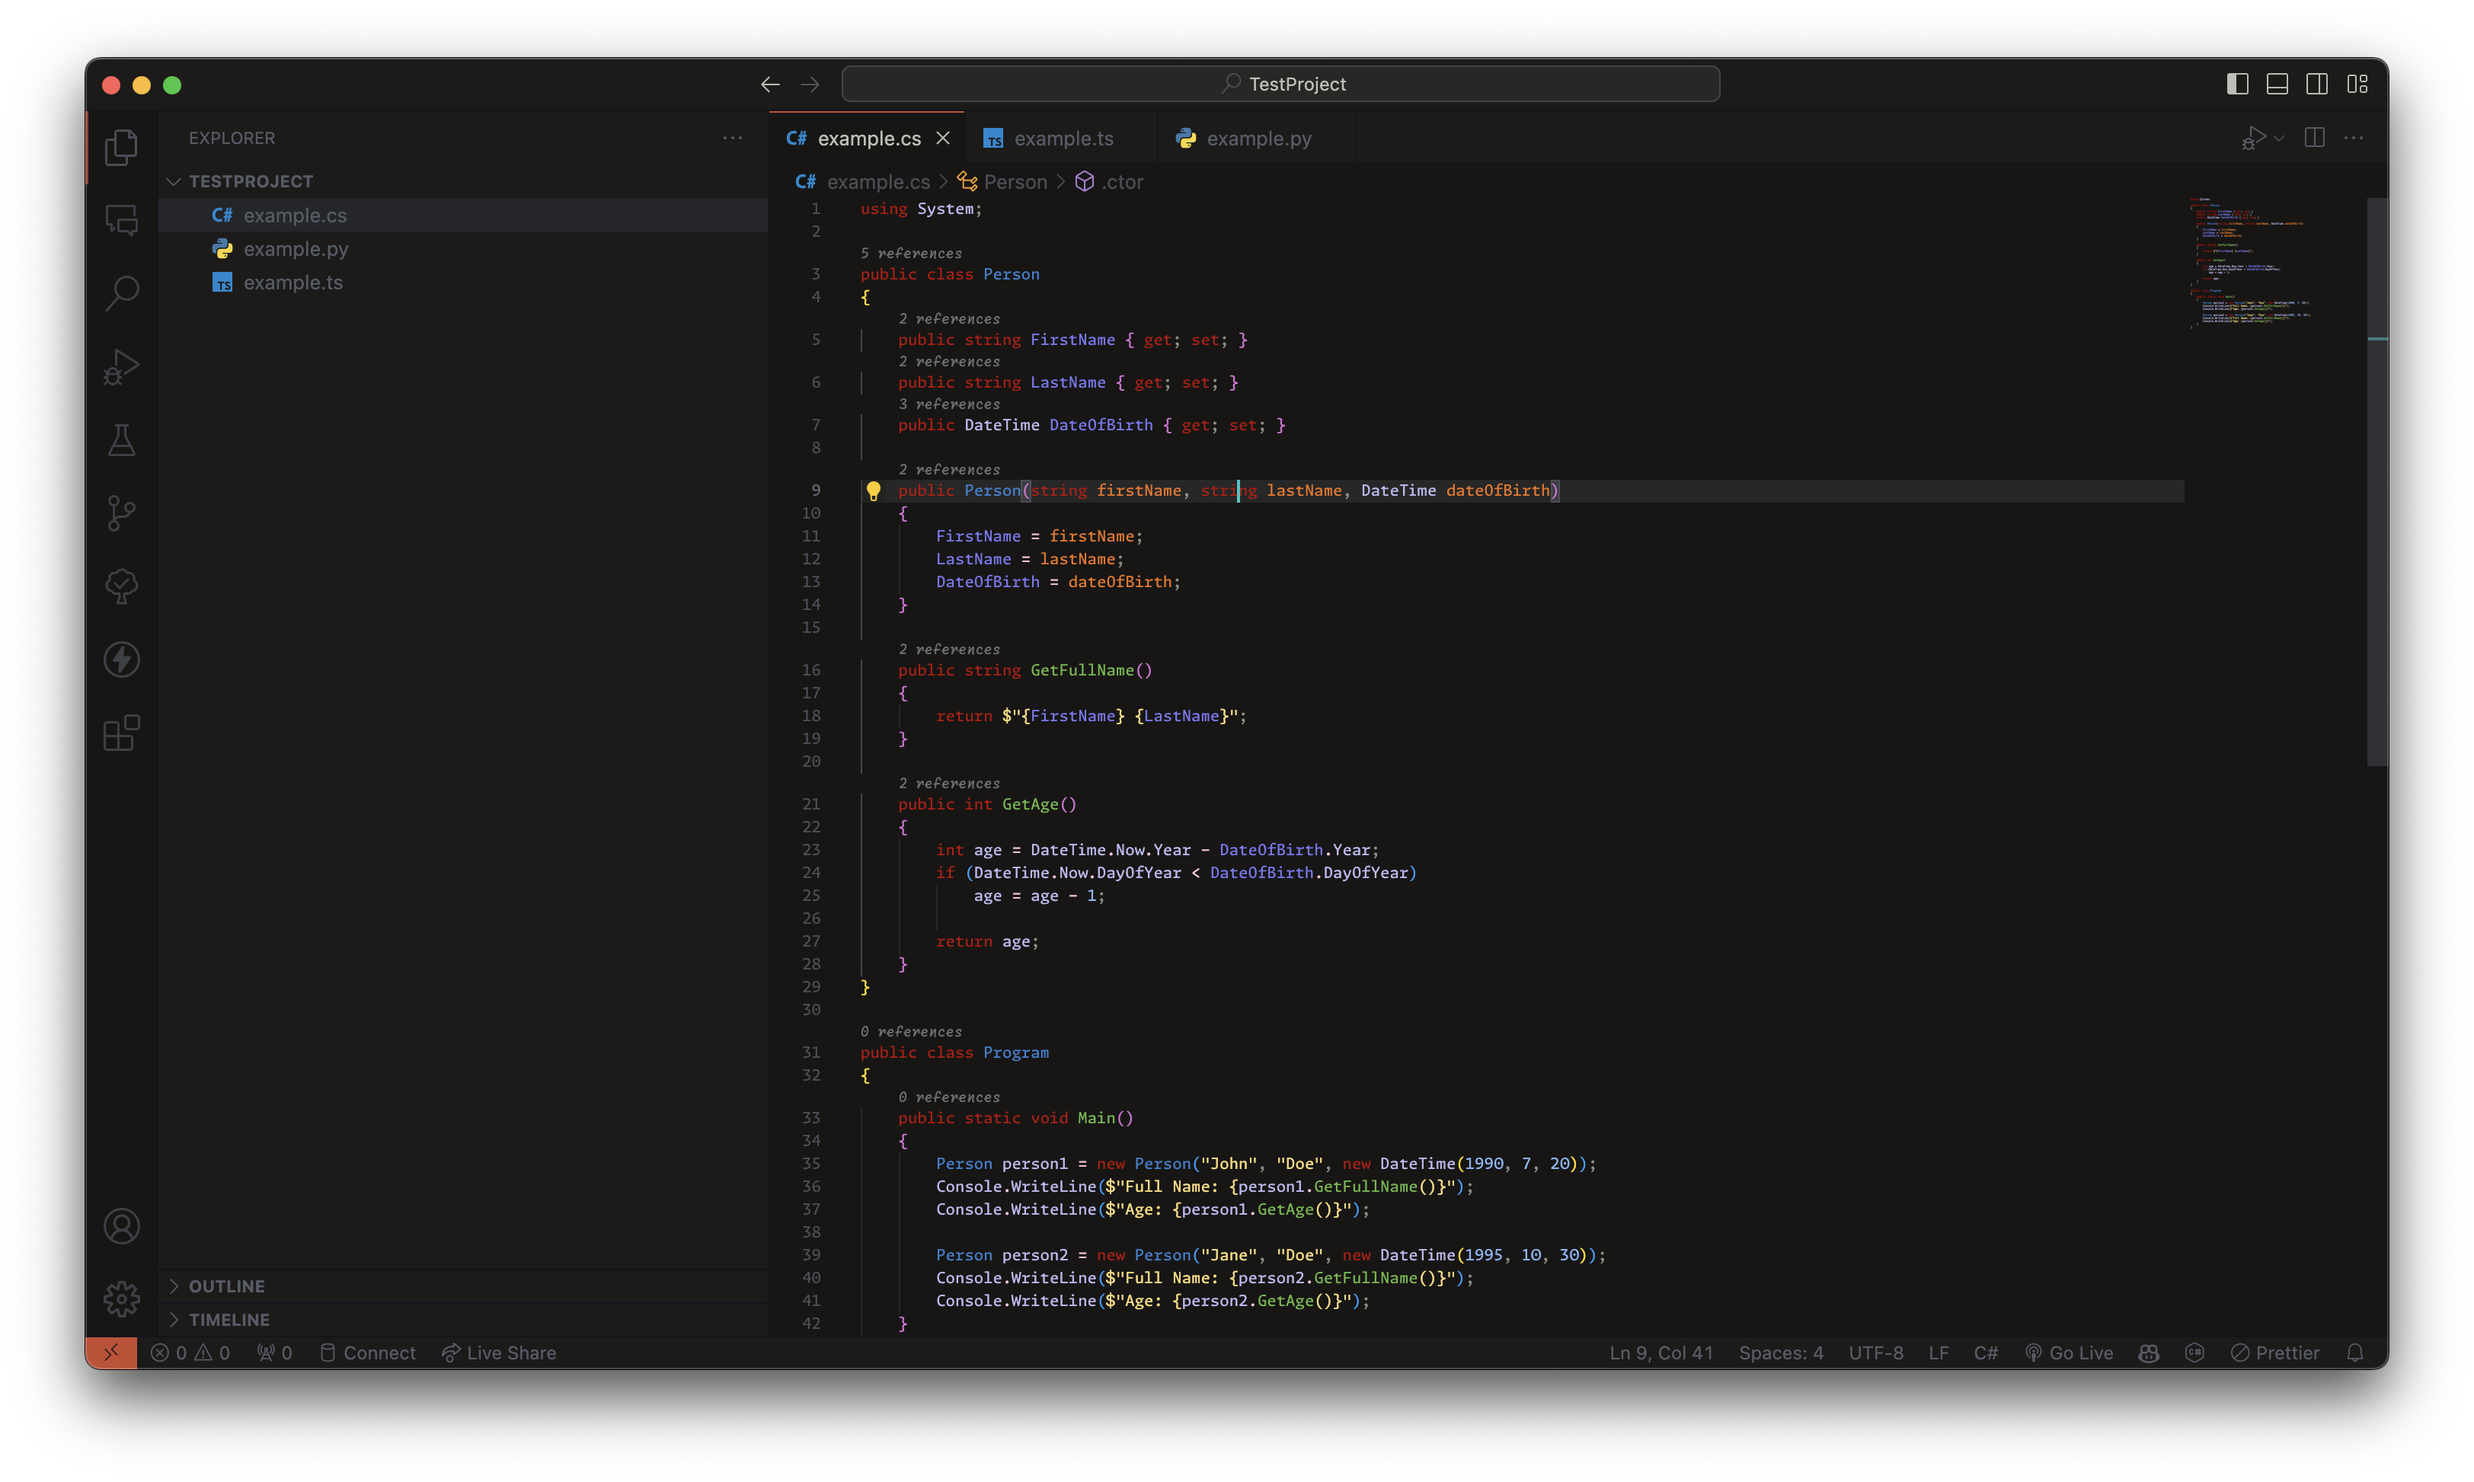
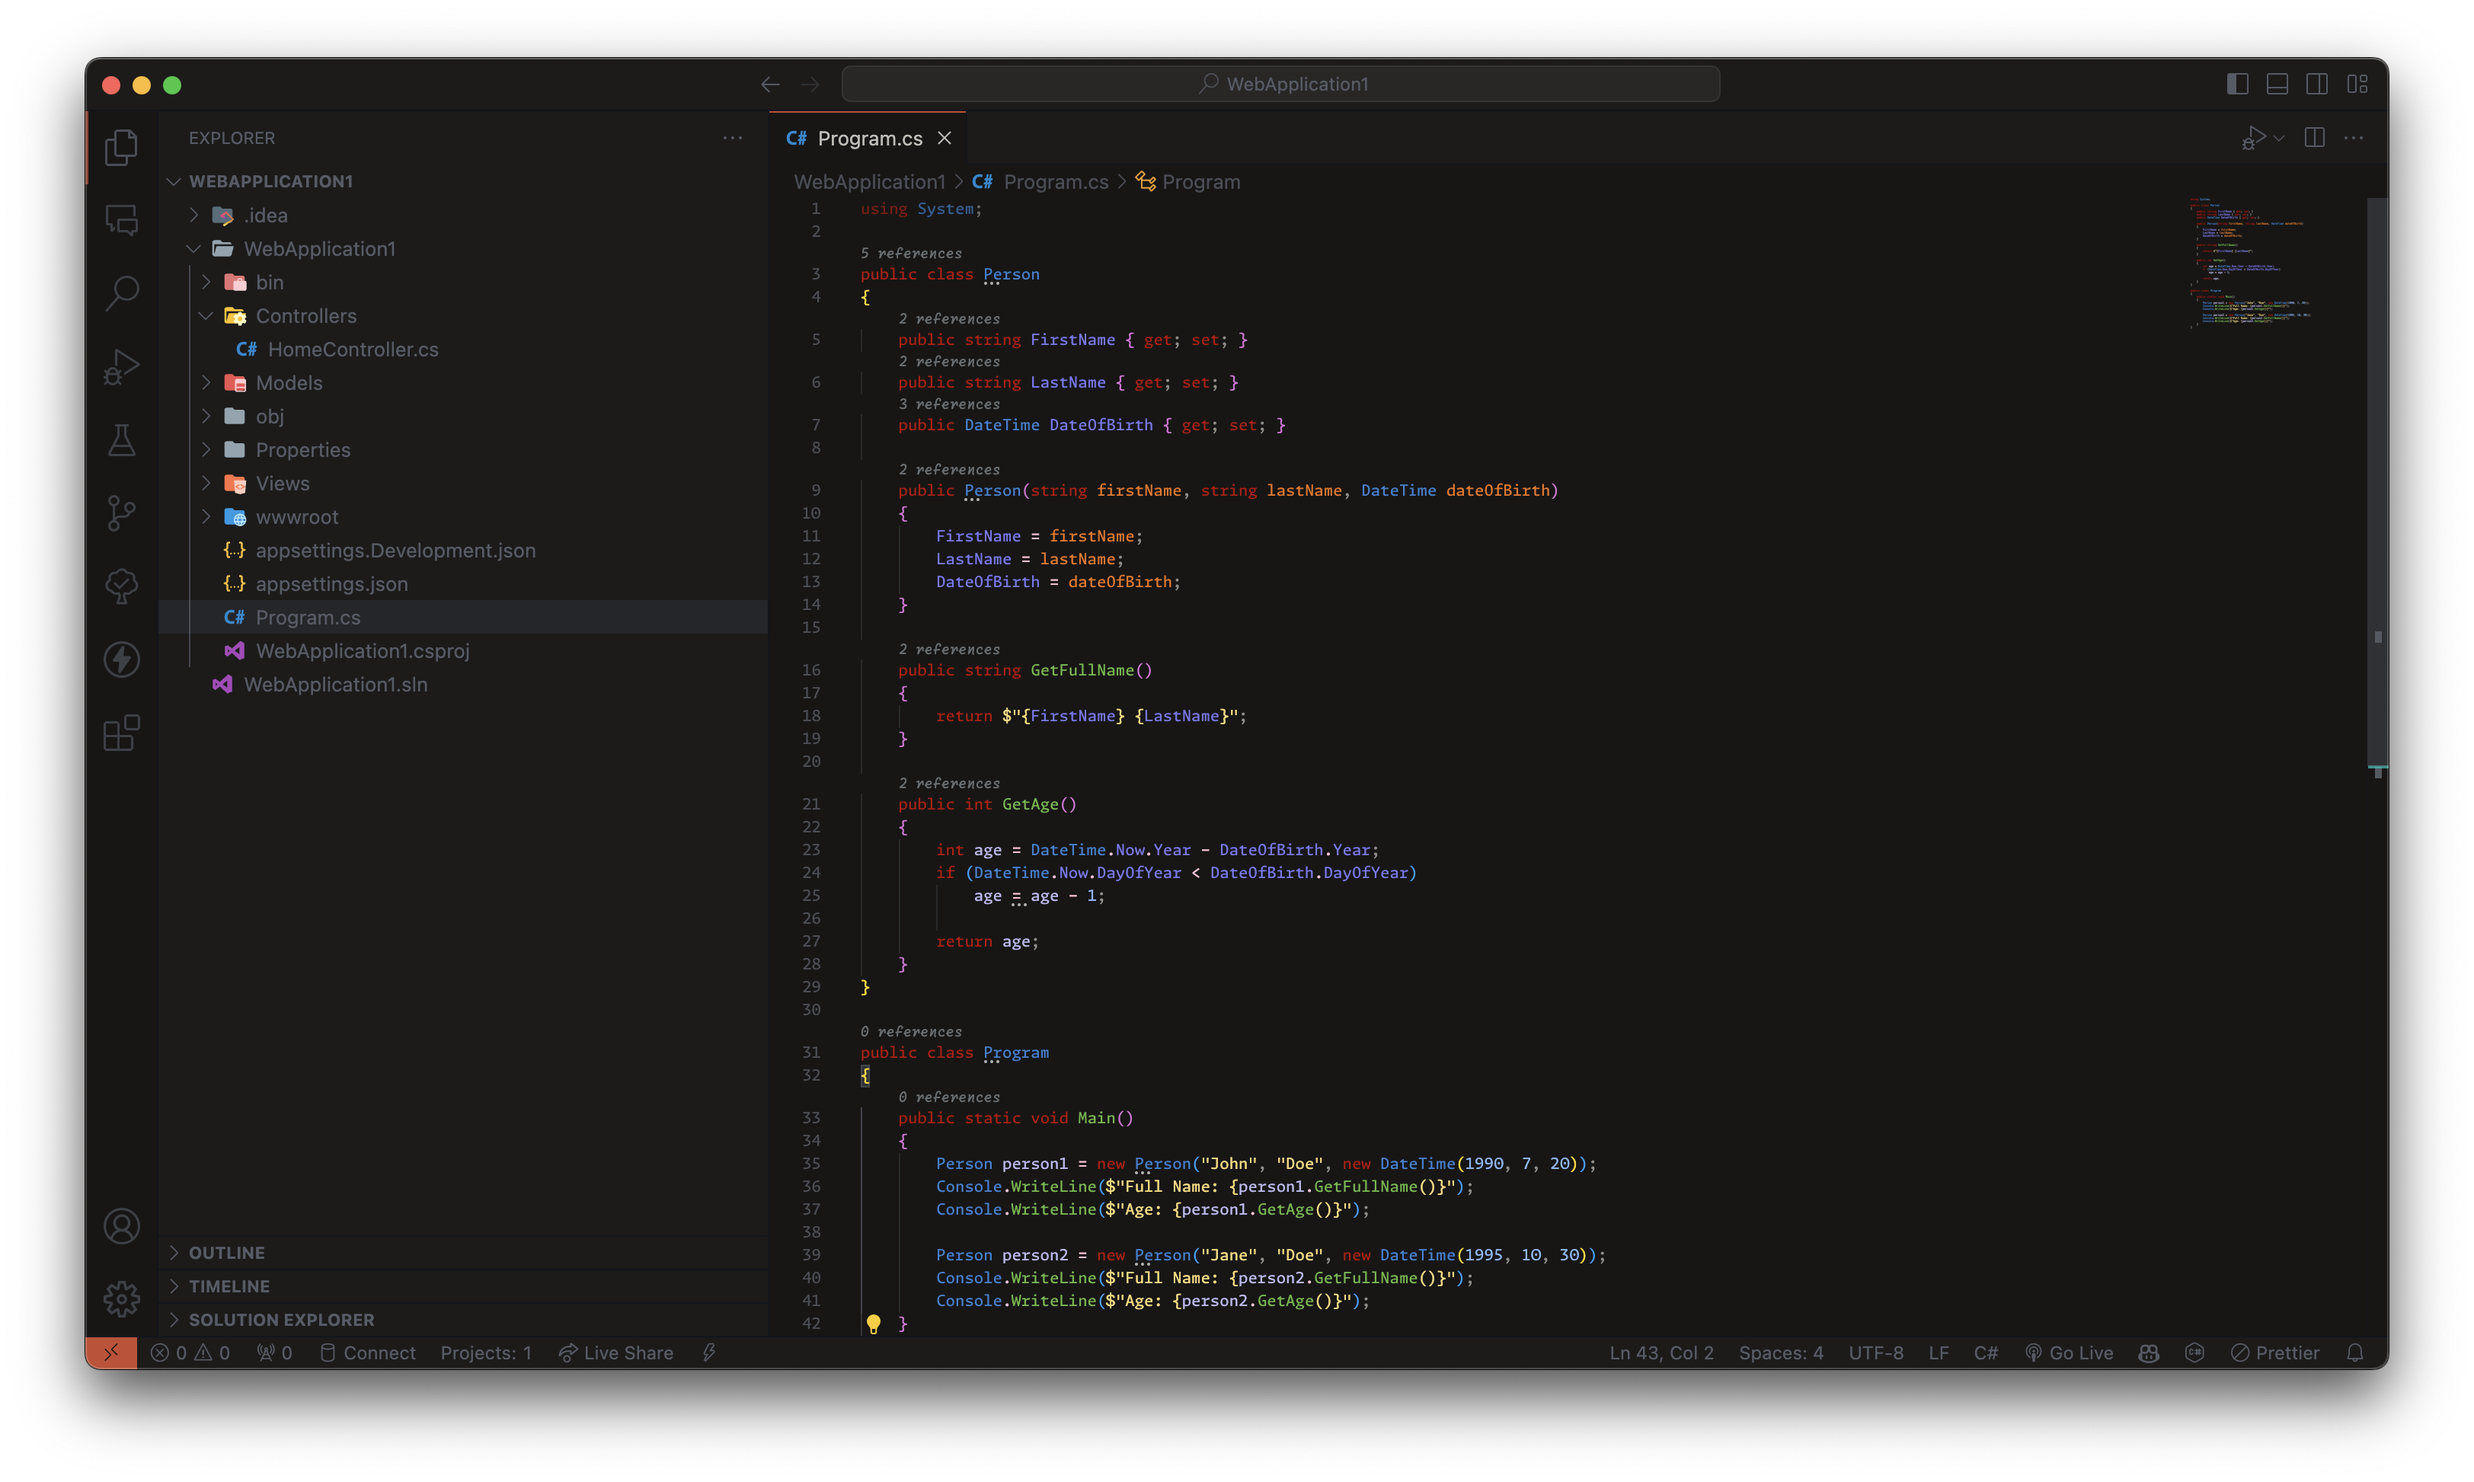
Fix Screenshot of C# example

diff --git a/CHANGELOG.md b/CHANGELOG.md
@@ -5,6 +5,12 @@ All notable changes to the "Obsidian Sunset" extension will be documented in thi
 Check [Keep a Changelog](http://keepachangelog.com/) for recommendations on how to structure this file.
 
 
+## [1.1.1] - 2024-01-07
+
+### Fixed
+
+- Screenshot of C# example
+
 ## [1.1.0] - 2024-01-07
 
 ### Added
